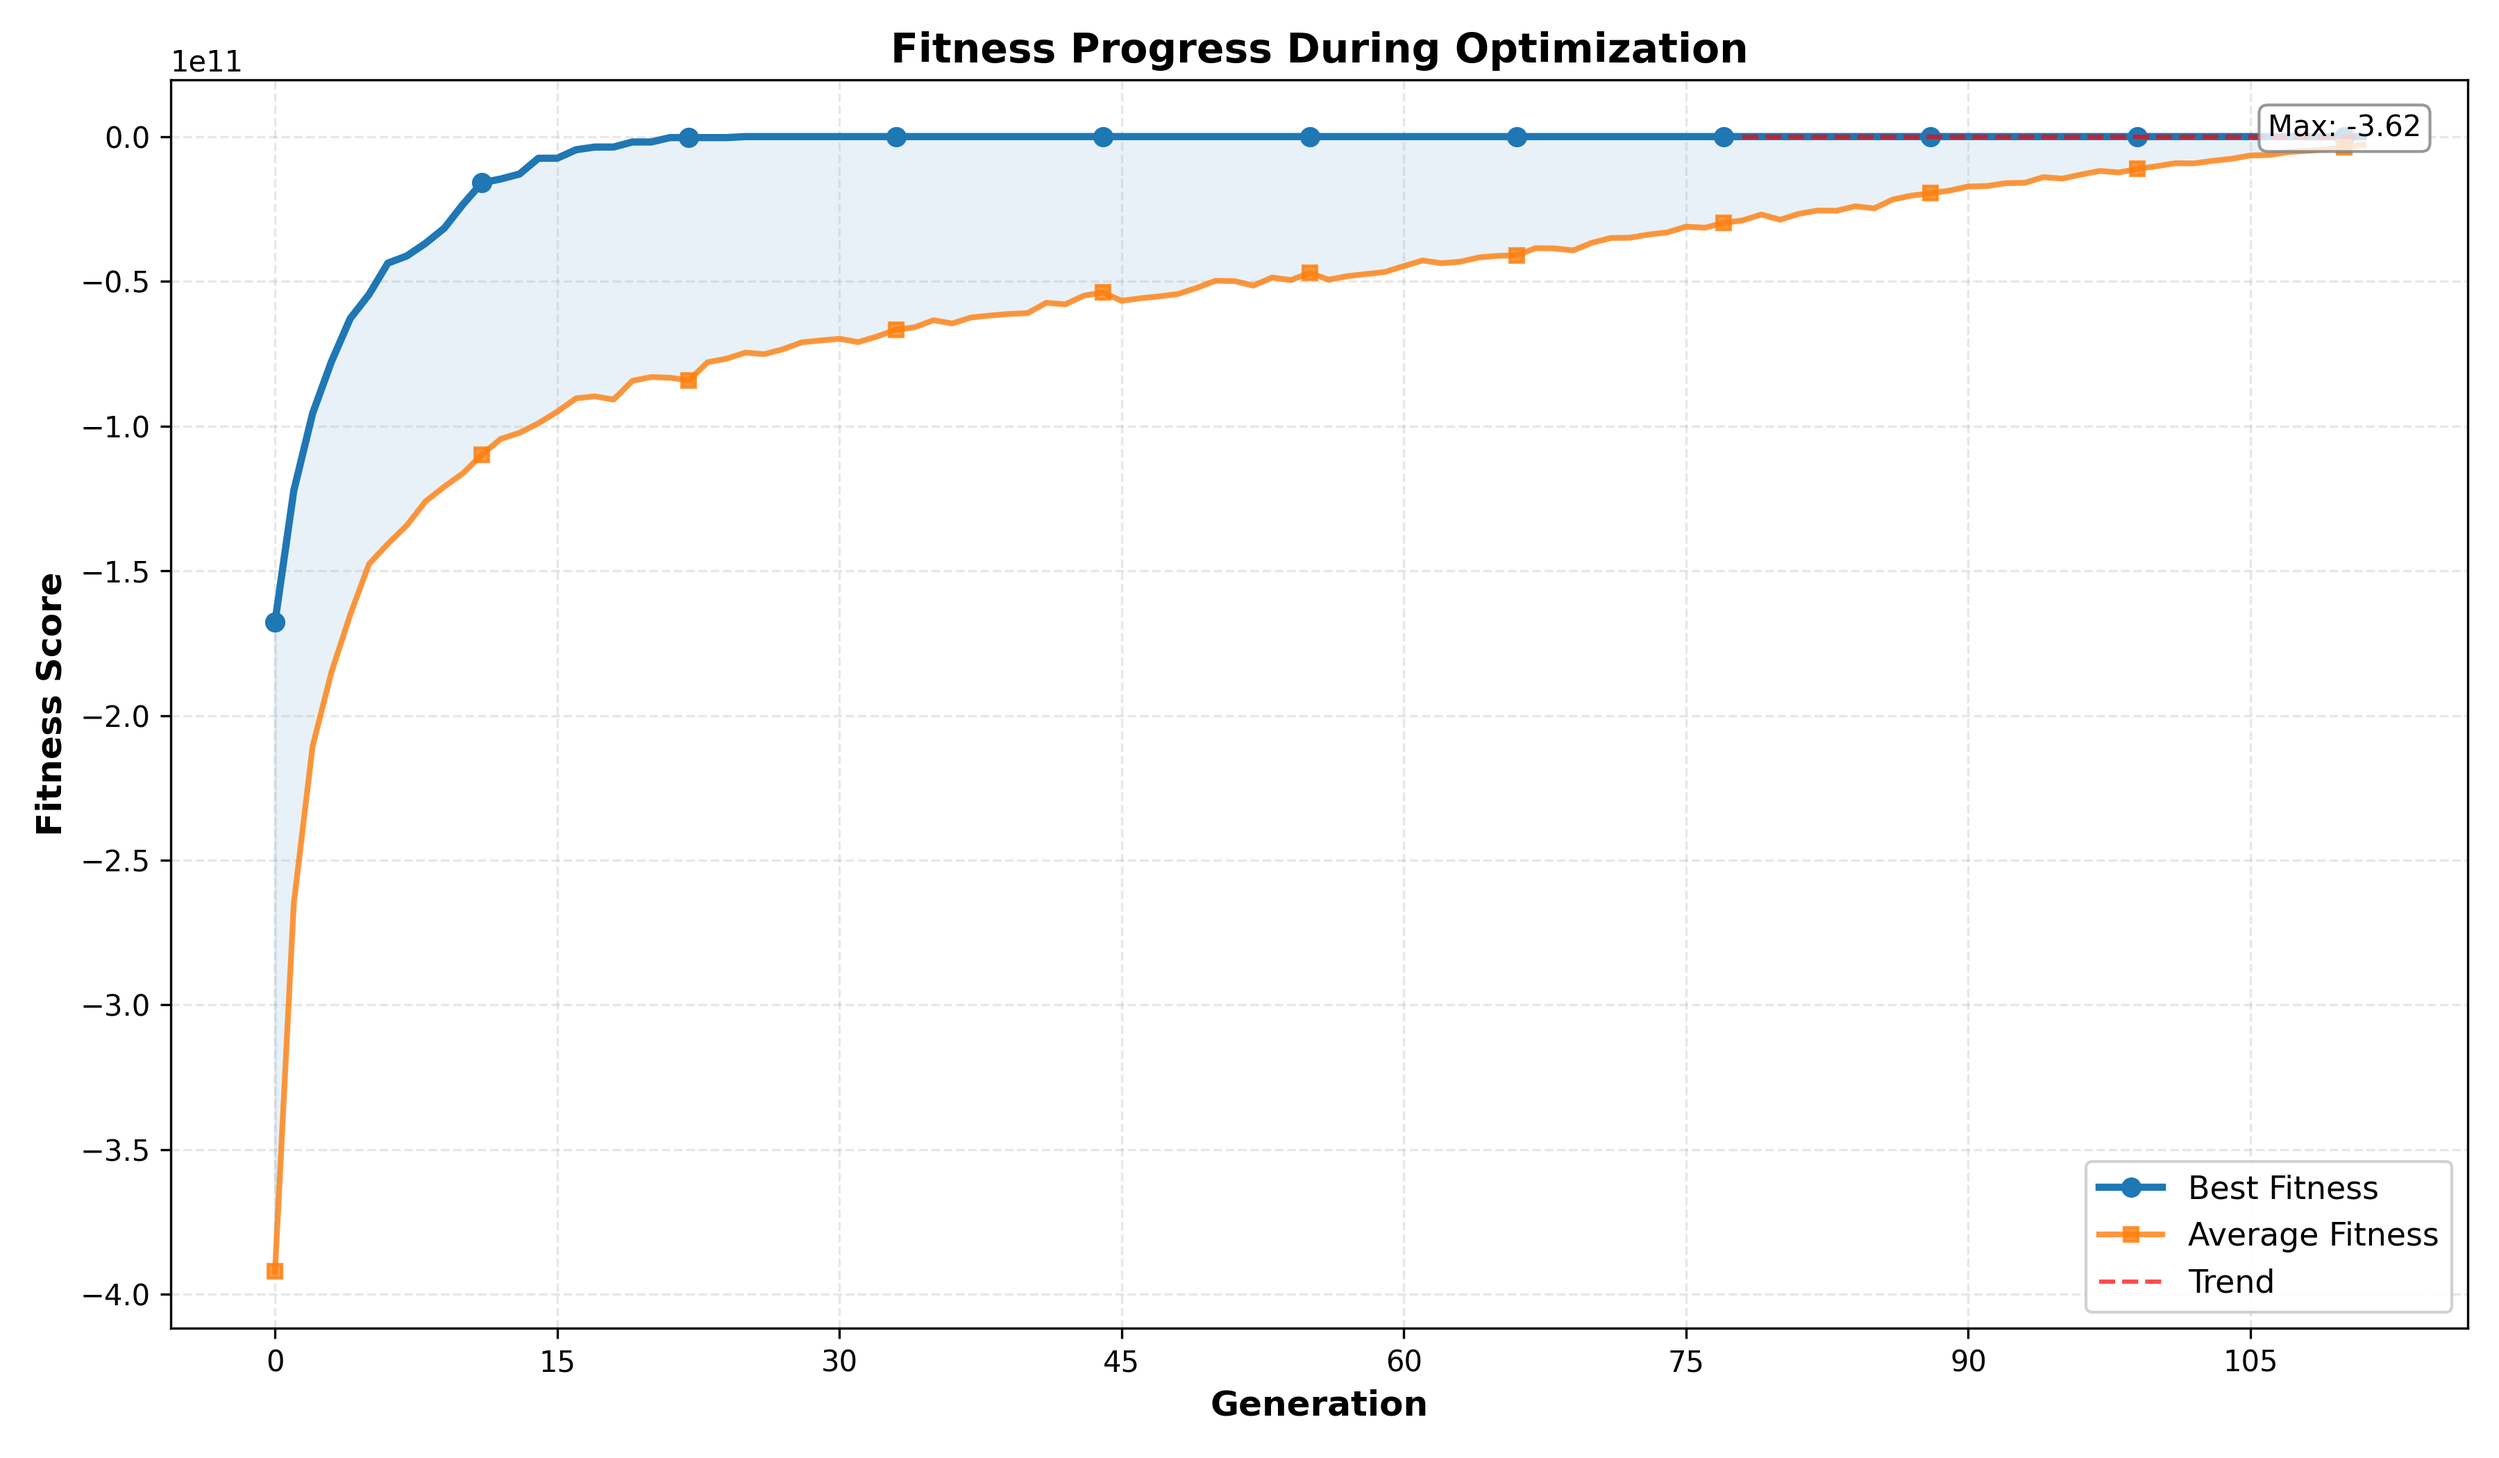
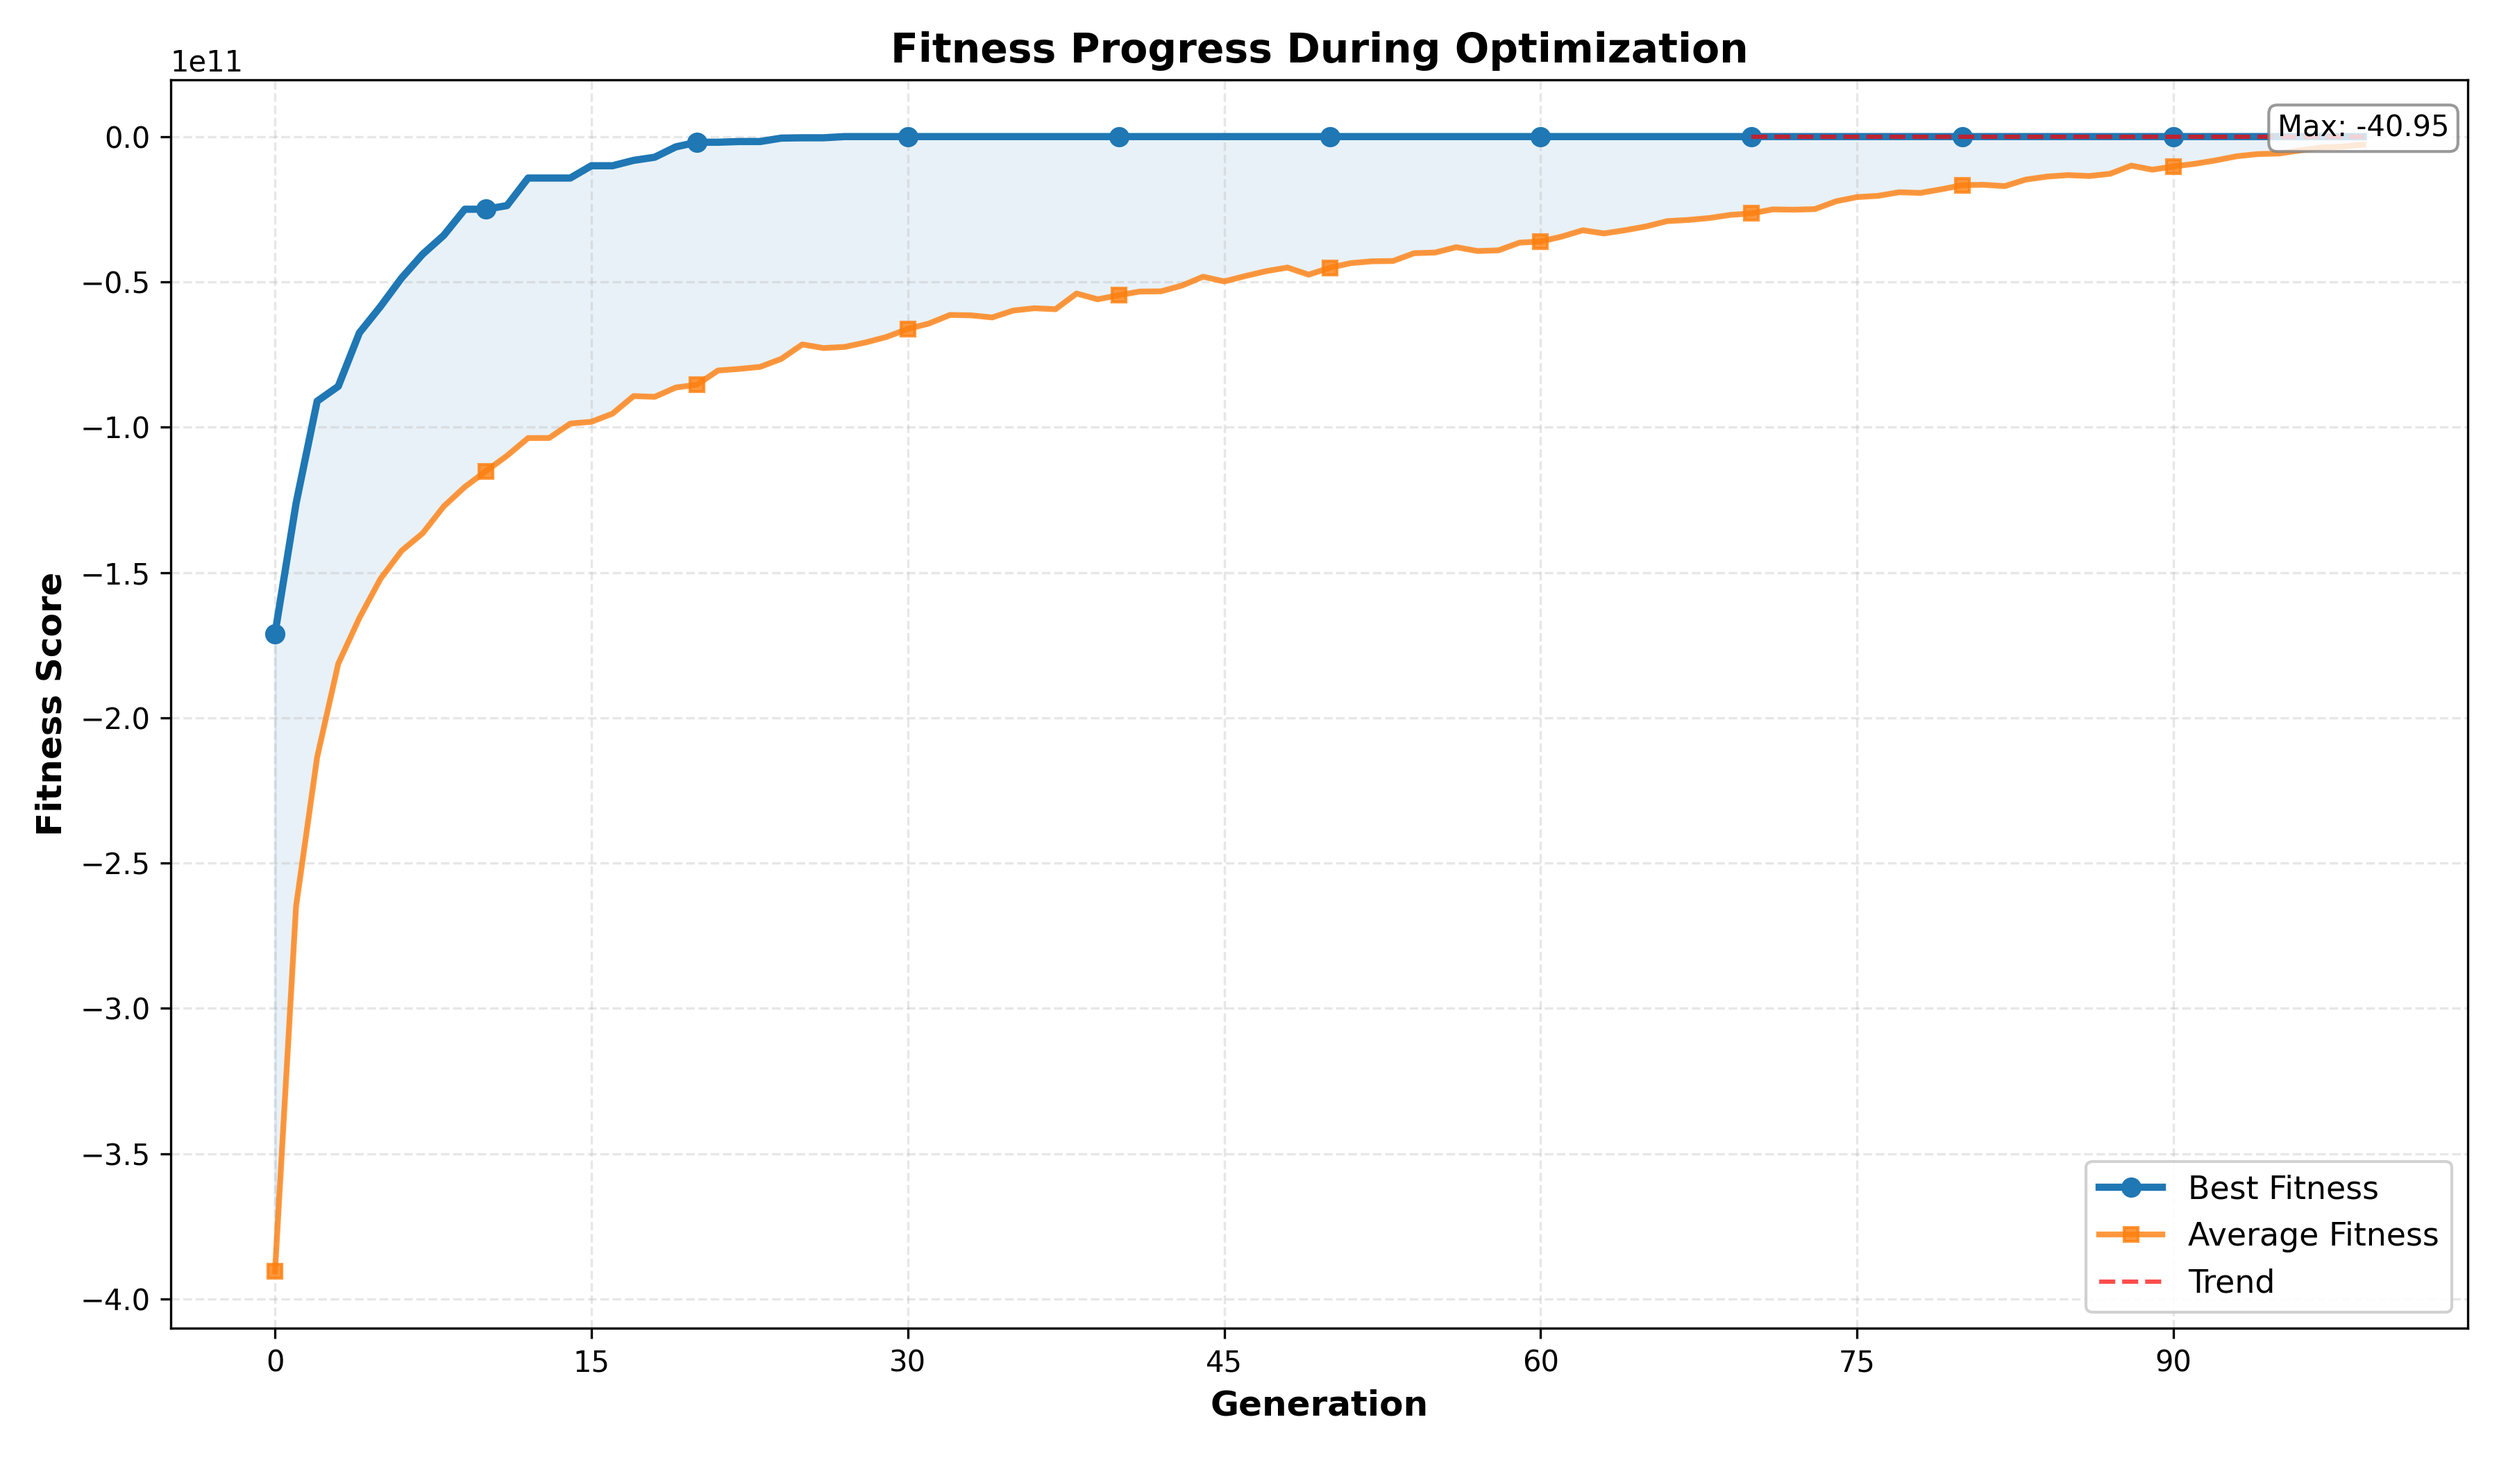
fix: picking strategy

diff --git a/diet_ga/genetic_algorithm.py b/diet_ga/genetic_algorithm.py
@@ -182,8 +182,27 @@ class GeneticAlgorithm:
                 if gen % 10 == 9:
                     print(f"{'-'*80}")
             
-            # Calculate final results
-            cost_last, totals_last = self._compute_cost_and_totals(self.population.individuals[0])
+            
+            def within_constraints(ind):
+                totals_month = {nut:0.0 for nut in self.population.evaluator.min_req}
+                for qty, food in zip(ind.chromosome, self.population.evaluator.foods):
+                    for nut, per100 in food.nutrients.items():
+                        totals_month[nut] += per100*10*qty
+                for nut, min_val in self.population.evaluator.min_req.items():
+                    dirn = self.population.evaluator.directions[nut]
+                    val = totals_month[nut]
+                    # remove if above min_req for 'min' nutrients
+                    if dirn=='min' and val>min_val:
+                        return False
+                    # remove if below min_req for 'max' nutrients
+                    if dirn=='max' and val<min_val:
+                        return False
+                return True
+
+            filtered = list(filter(within_constraints, self.population.individuals))
+            best_final = filtered[0] if filtered else self.population.individuals[0]
+            cost_last, totals_last = self._compute_cost_and_totals(best_final)
+
             
             # Generate plots
             self.plotter.plot(best_history, avg_history)
@@ -193,11 +212,12 @@ class GeneticAlgorithm:
             
             # Return best solution along with additional information
             return (
-                self.population.individuals[0].chromosome,
-                self.population.individuals[0].fitness,
-                cost_last,
-                totals_last
-            )
+                  best_final.chromosome,
+                  best_final.fitness,
+                  cost_last,
+                  totals_last
+                    )
+
             
         except Exception as e:
             print(f"Error running Genetic Algorithm: {e}")

diff --git a/main.py b/main.py
@@ -300,15 +300,15 @@ Algorithm Information:
     
     # GA arguments
     ga_group = parser.add_argument_group('Genetic Algorithm Options')
-    ga_group.add_argument('--pop', type=int, default=2000,
+    ga_group.add_argument('--pop', type=int, default=1600,
                          help='Population size for GA')
-    ga_group.add_argument('--gens', type=int, default=111,
+    ga_group.add_argument('--gens', type=int, default=99,
                          help='Number of generations for GA')
     ga_group.add_argument('--mut', type=float, default=0.25,
                          help='Initial mutation rate for GA')
     ga_group.add_argument('--final-mut', type=float, default=0.01,
                          help='Final mutation rate for GA')
-    ga_group.add_argument('--retain', type=int, default=70,
+    ga_group.add_argument('--retain', type=int, default=80,
                          help='Number of elite individuals to retain')
     
     # SA arguments

diff --git a/diet_ga/fitness2.py b/diet_ga/fitness2.py
@@ -65,13 +65,13 @@ class FitnessEvaluator:
         band_reward = 0.0
         if direction == 'max':
             if min_val <= val:
-                band_reward = -4.5*weight * (val - min_val) / min_val
+                band_reward = -100*weight * (val - min_val) / min_val
             else:
                 band_reward = 1000*weight * (val - min_val) / min_val
            
         elif direction == 'min':
             if val <= min_val:
-                band_reward = -4.5*weight * (min_val - val) / min_val
+                band_reward = -100*weight * (min_val - val) / min_val
             else:
                 band_reward = 1000*weight * (min_val - val) / min_val
 
